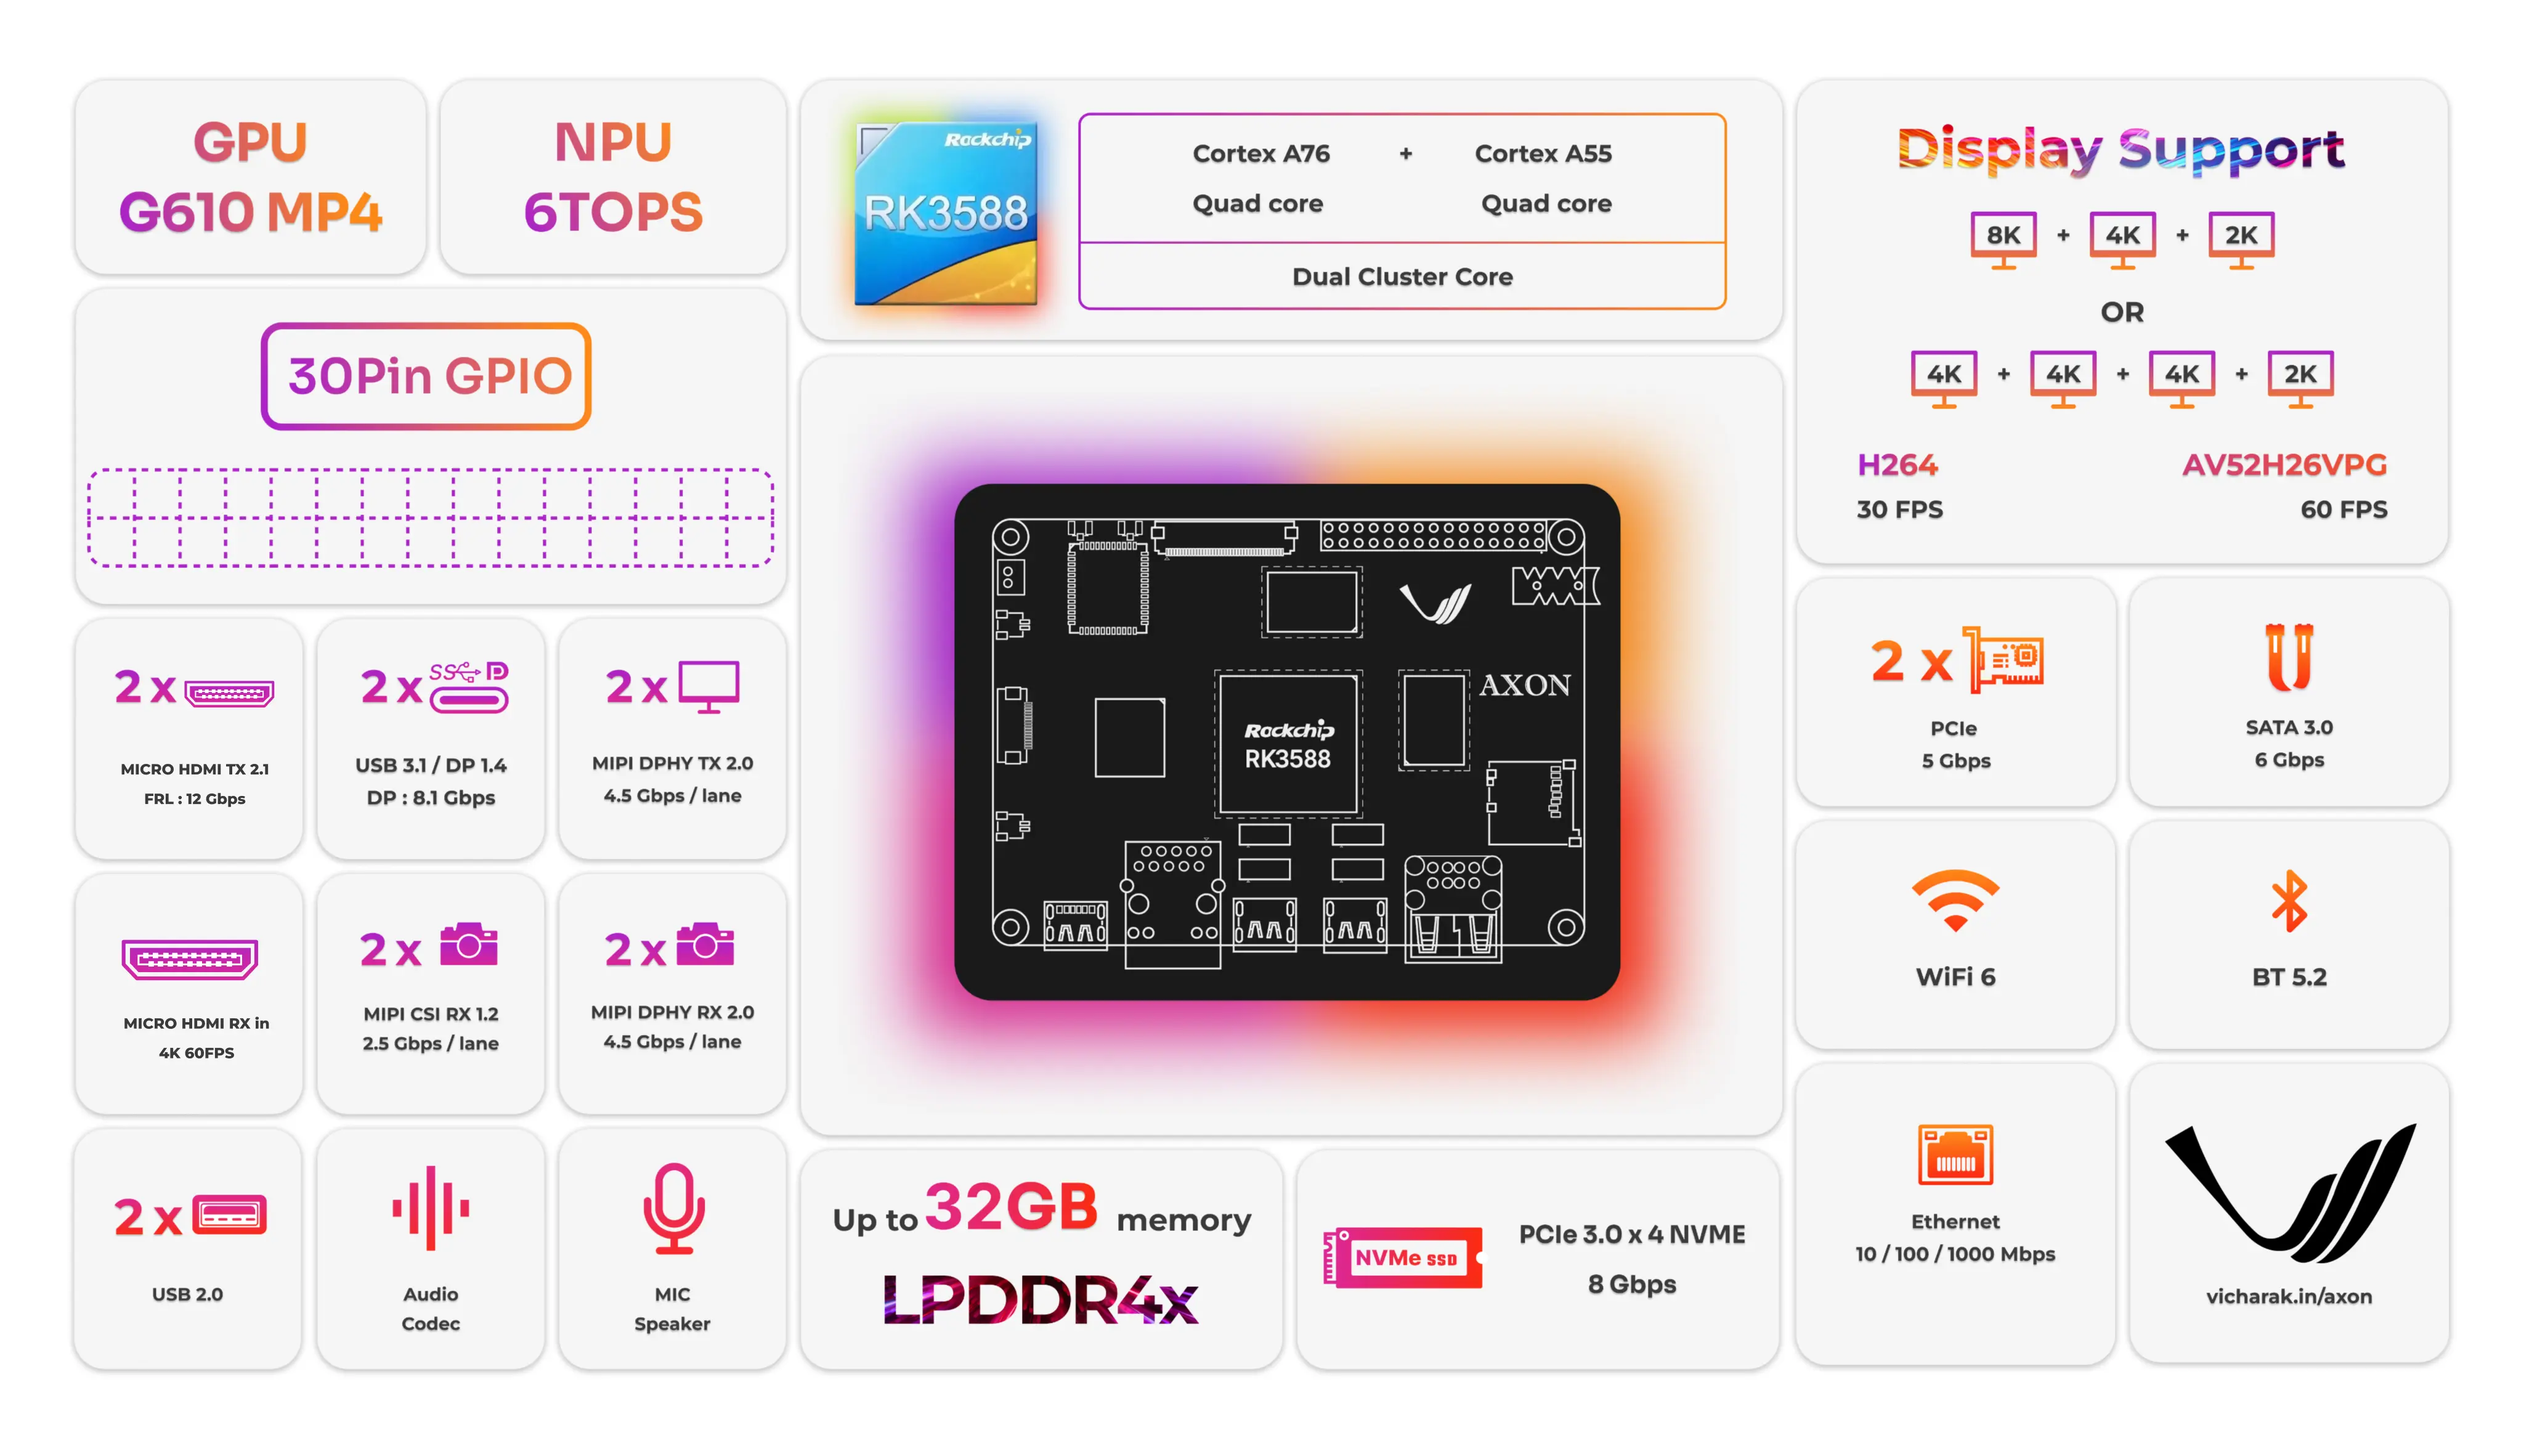
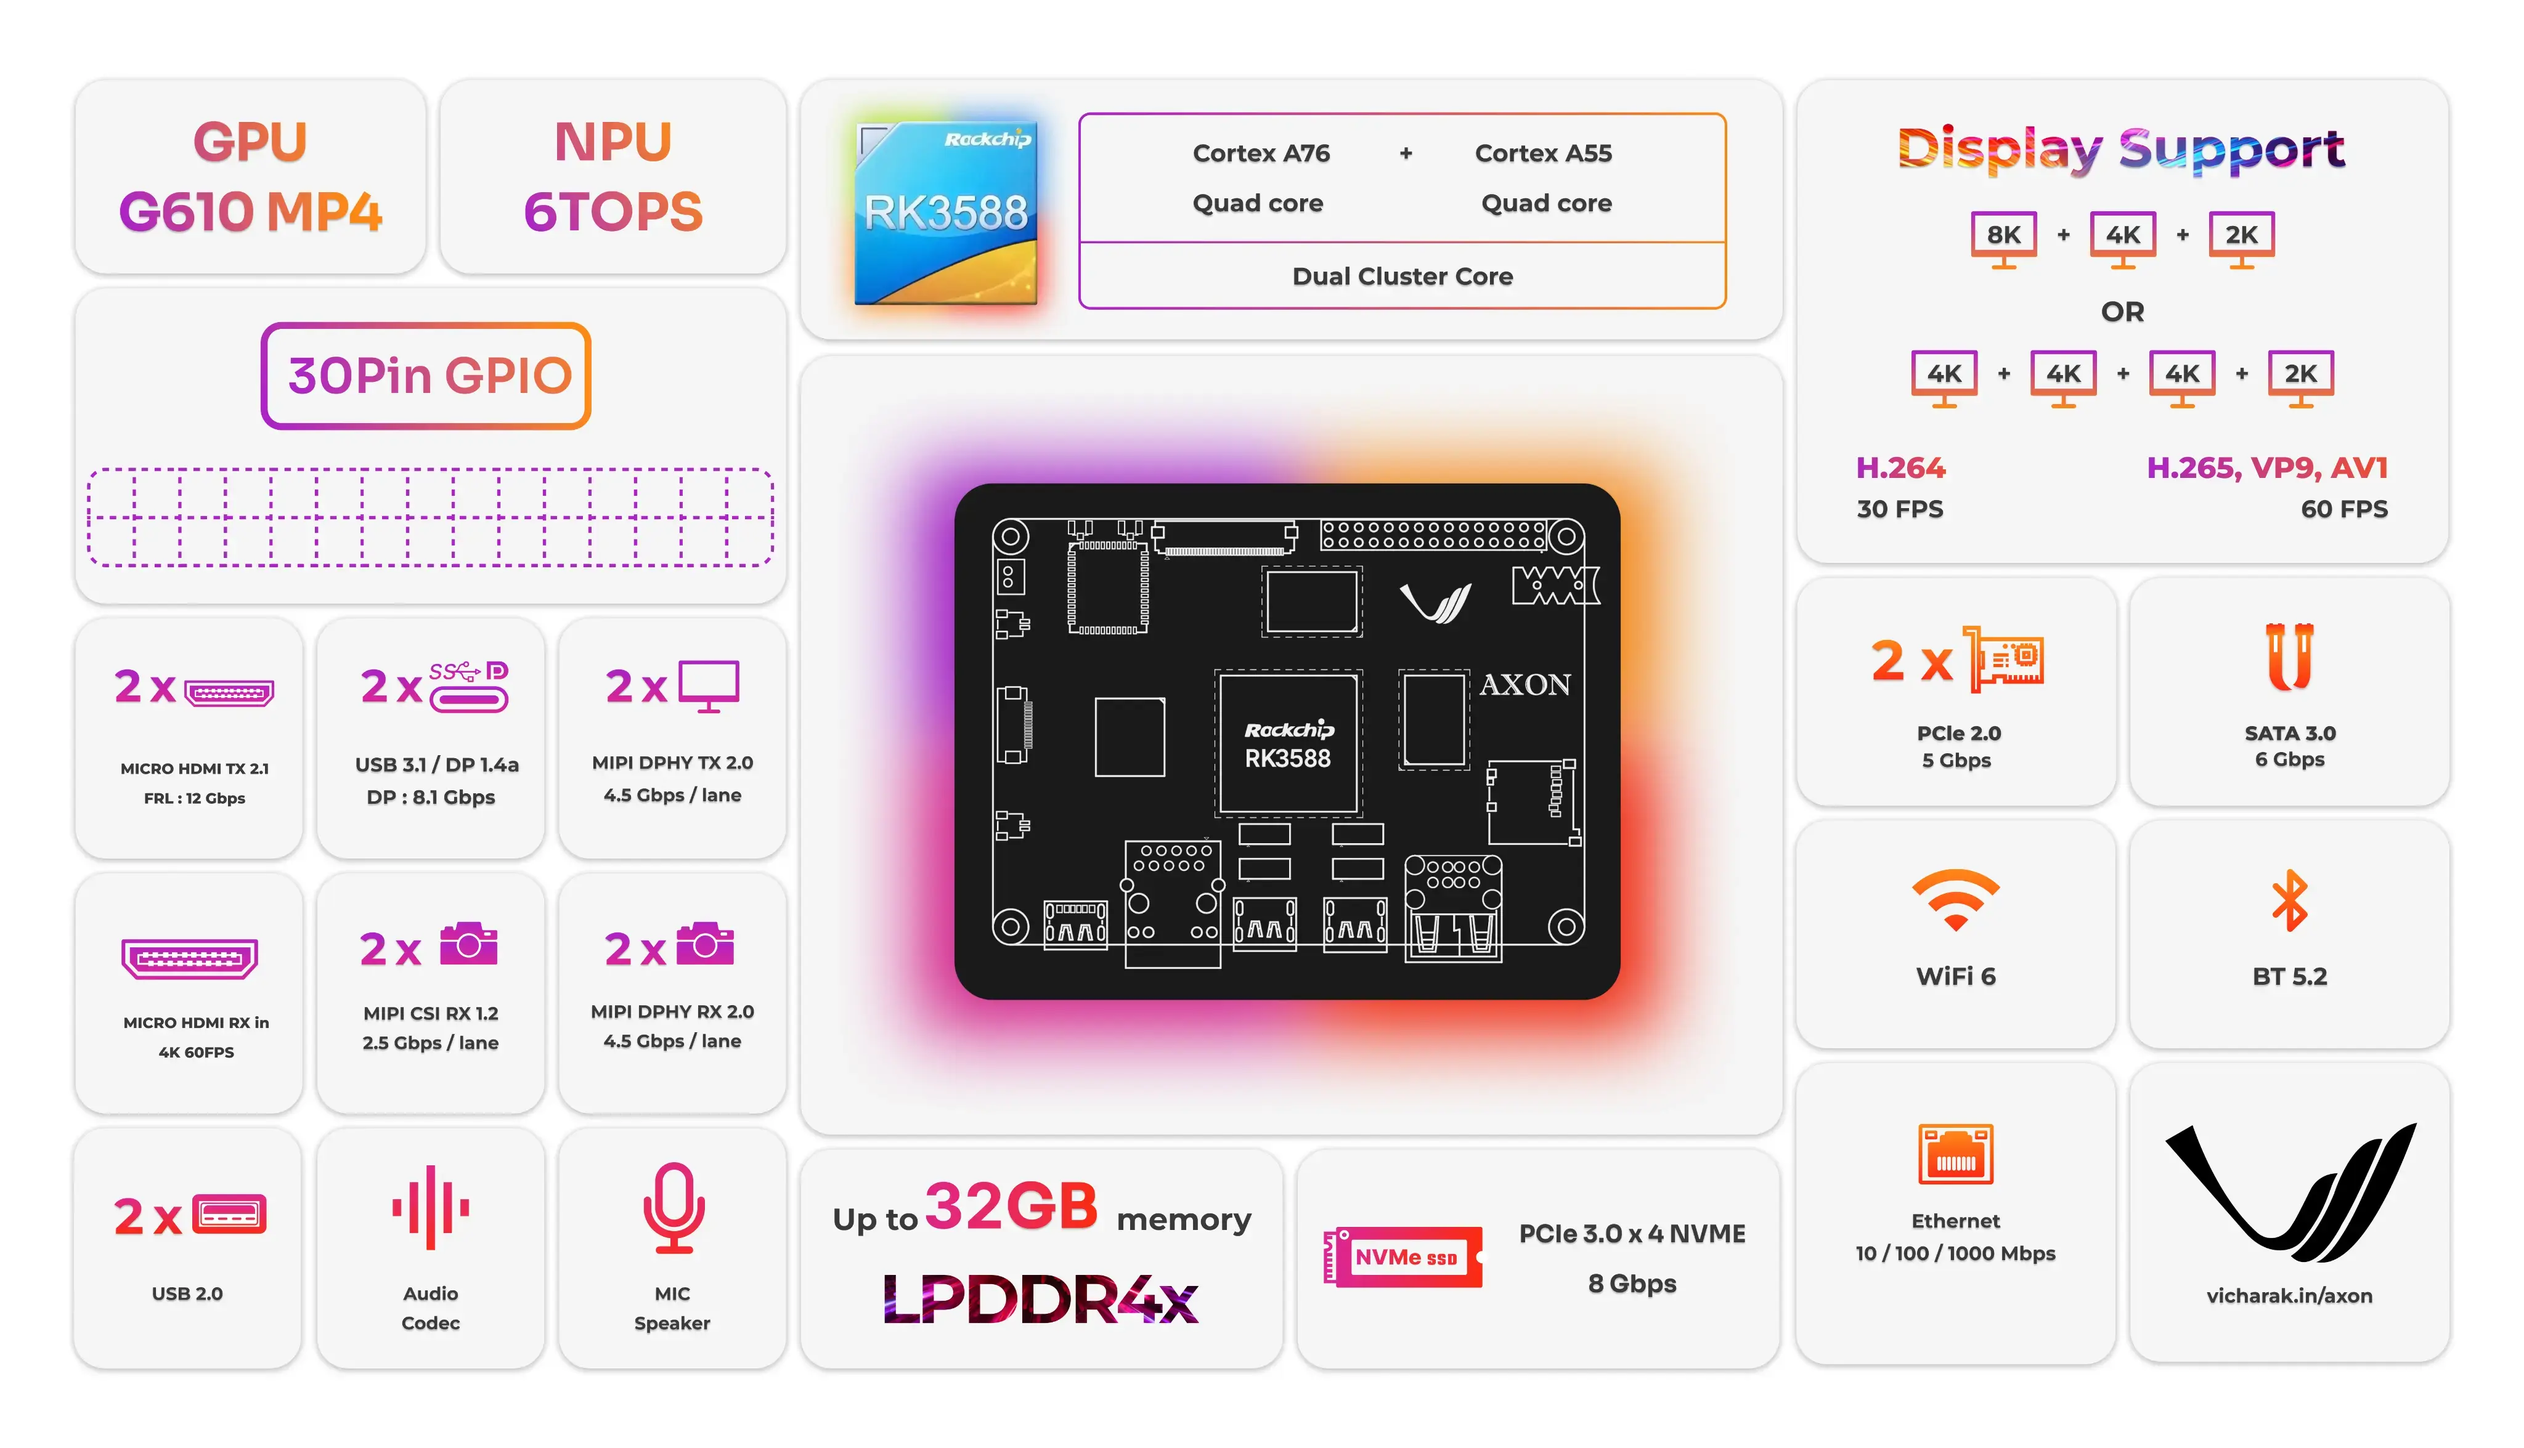
Axon: Fixed version info and typos and updated axon-v2 images

diff --git a/source/vicharak_sbcs/axon/axon-overview.rst b/source/vicharak_sbcs/axon/axon-overview.rst
@@ -61,7 +61,7 @@ The Axon Single Board Computer (SBC) offers a range of hardware features, includ
      - **Feature**
    * - Display
      - | 2 X HDMI2.1 (maximum support upto `8K@60fps`)
-       | 2 X DP1.4 (maximum support upto `8K@30fps`) multiplexed over Type C Alt Mode DisplyPort
+       | 2 X DP1.4a (maximum support upto `8K@30fps`) multiplexed over Type C Alt Mode DisplyPort
        | 2 X MIPI-DPHY TX (maximum support upto `4K@60fps`) 
        | 1 X HDMI-IN (maximum support upto `4K@60fps`), supports HDCP 2.3
    * - Audio

diff --git a/source/vicharak_sbcs/axon/peripherals/index.rst b/source/vicharak_sbcs/axon/peripherals/index.rst
@@ -12,13 +12,12 @@ Axon supports a wide variety of peripherals to expand its functionality and inte
    GPIO <gpio>
    I2C <i2c>
    SPI <spi>
-   USB <usb>
    USB 2.0 <usb2>
    USB 3.0 <usb3>
    I2S <audio>
    PWM <pwm>
    UART <uart>
-   PCI 2.0 <pci2>
-   PCI 3.0 <pci3>
+   PCIe 2.0 <pci2>
+   PCIe 3.0 <pci3>
    SARADC <saradc>
 

diff --git a/source/vicharak_sbcs/axon/storage/index.rst b/source/vicharak_sbcs/axon/storage/index.rst
@@ -7,7 +7,7 @@ Axon provides a variety of storage options to suit different application needs, 
 .. toctree::
    :maxdepth: 1
    
-   EMMC 5.1 <emmc>
-   PCI 3.0 (NVMe M.2) <nvme>
+   eMMC 5.1 <emmc>
+   PCIe 3.0 (NVMe M.2) <nvme>
    Micro SD Card <microsd>
    SATA 3.0 <sata>

diff --git a/source/vicharak_sbcs/axon/video-input/index.rst b/source/vicharak_sbcs/axon/video-input/index.rst
@@ -9,5 +9,5 @@ Axon supports multiple MIPI interfaces to connect various types of image sensors
    :maxdepth: 2
 
    HDMI RX 2.0  <hdmirx>
-   MIPI CSI 2.0 <mipi>
+   MIPI Camera Interface 1.2/2.0 <mipi>
    

diff --git a/source/vicharak_sbcs/axon/video-input/mipi.rst b/source/vicharak_sbcs/axon/video-input/mipi.rst
@@ -1,6 +1,6 @@
-##############
-MIPI CSI
-##############
+######################
+MIPI Camera Interface 
+######################
 
 .. note::
 

diff --git a/source/vicharak_sbcs/axon/display/type-c-dp.rst b/source/vicharak_sbcs/axon/display/type-c-dp.rst
@@ -1,5 +1,5 @@
 ##################
-Type-C DP
+Type-C DP 1.4a
 ##################
 
 .. note::

diff --git a/source/vicharak_sbcs/axon/peripherals/pci2.rst b/source/vicharak_sbcs/axon/peripherals/pci2.rst
@@ -1,7 +1,7 @@
 
 
 ##############
-PCI 2.0
+PCIe 2.0
 ##############
 
 .. note::

diff --git a/source/vicharak_sbcs/axon/peripherals/pci3.rst b/source/vicharak_sbcs/axon/peripherals/pci3.rst
@@ -1,5 +1,5 @@
 ##############
-PCI 3.0
+PCIe 3.0
 ##############
 
 .. note::

diff --git a/source/vicharak_sbcs/axon/storage/emmc.rst b/source/vicharak_sbcs/axon/storage/emmc.rst
@@ -1,5 +1,5 @@
 #############
-Emmc
+eMMC
 #############
 
 .. note::

diff --git a/source/vicharak_sbcs/axon/storage/nvme.rst b/source/vicharak_sbcs/axon/storage/nvme.rst
@@ -1,5 +1,5 @@
 #############
-Nvme
+NVMe
 #############
 
 .. note::
